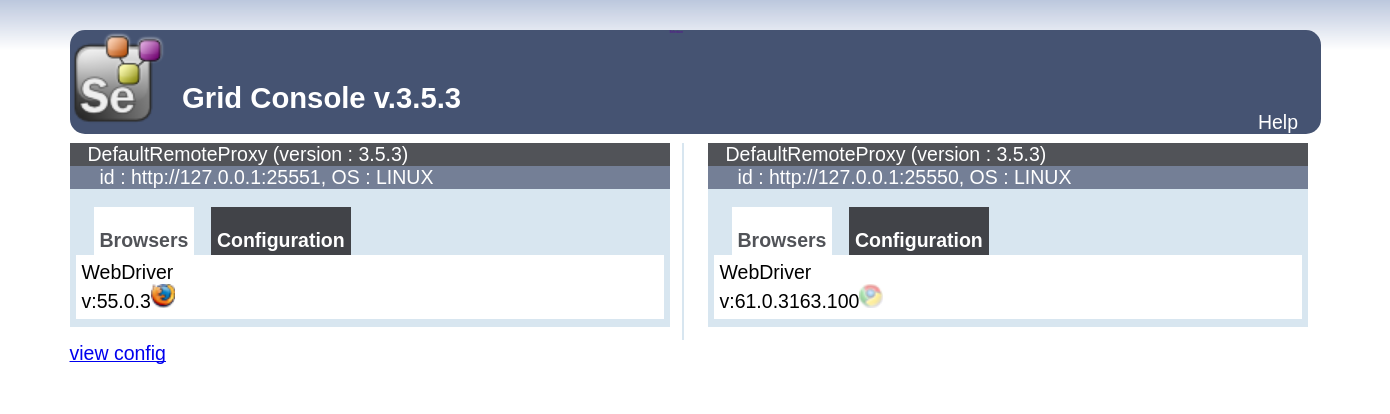
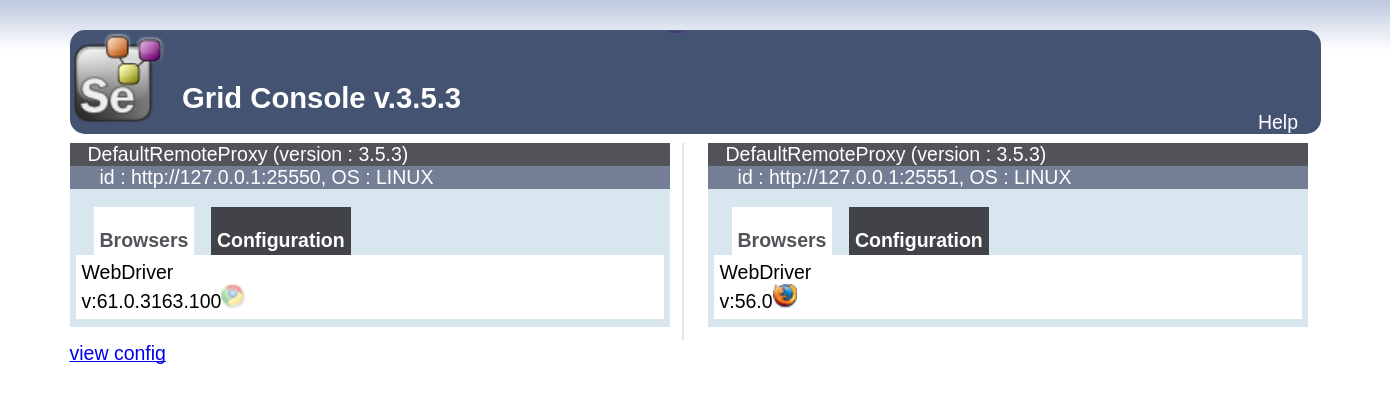
Tests: CI: Add script_scenario_arbitrary_uid for #175

diff --git a/test/python_test.py b/test/python_test.py
@@ -89,7 +89,7 @@ if args.browser == 'firefox':
             }
 
 # http://selenium-python.readthedocs.org/en/latest/getting-started.html#using-selenium-with-remote-webdriver
-print ("%s %s - (01/14) Will connect to selenium at %s" % (datetime.datetime.utcnow(), longId, myselenium_hub_url))
+print ("%s %s - (01/15) Will connect to selenium at %s" % (datetime.datetime.utcnow(), longId, myselenium_hub_url))
 driver = webdriver.Remote(command_executor=myselenium_hub_url, desired_capabilities=caps)
 time.sleep(msleep)
 
@@ -160,11 +160,11 @@ pageurl = ("http://%s:%s/adwords" % (page_host, page_port))
 
 @retry(stop_max_attempt_number=20, stop_max_delay=40100, wait_fixed=300)
 def open_web_page():
-    print ("%s %s - (02/14) Opening page %s" % (datetime.datetime.utcnow(), longId, pageurl))
+    print ("%s %s - (02/15) Opening page %s" % (datetime.datetime.utcnow(), longId, pageurl))
     driver.get(pageurl)
     time.sleep(msleep)
-    print ("%s %s - (03/14) Current title: %s" % (datetime.datetime.utcnow(), longId, driver.title))
-    print ("%s %s - (04/14) Asserting 'Google Adwords' in driver.title" % (datetime.datetime.utcnow(), longId))
+    print ("%s %s - (03/15) Current title: %s" % (datetime.datetime.utcnow(), longId, driver.title))
+    print ("%s %s - (04/15) Asserting 'Google Adwords' in driver.title" % (datetime.datetime.utcnow(), longId))
     assert "Google AdWords | Pay-per-Click-Onlinewerbung auf Google (PPC)" in driver.title
 
 open_web_page()
@@ -172,12 +172,12 @@ open_web_page()
 @retry(stop_max_attempt_number=12, stop_max_delay=5000, wait_fixed=300)
 def mobile_emulation_get_costs():
     pageurl = ("http://%s:%s/adwords/costs" % (page_host, page_port))
-    print ("%s %s - (04/14) mobile_emulation test: Opening page %s" % (datetime.datetime.utcnow(), longId, pageurl))
+    print ("%s %s - (04/15) mobile_emulation test: Opening page %s" % (datetime.datetime.utcnow(), longId, pageurl))
     driver.get(pageurl)
 
 @retry(stop_max_attempt_number=40, stop_max_delay=40100, wait_fixed=300)
 def click_kosten():
-    print ("%s %s - (04/14) Click link 'Kosten'" % (datetime.datetime.utcnow(), longId))
+    print ("%s %s - (04/15) Click link 'Kosten'" % (datetime.datetime.utcnow(), longId))
     assert is_element_present(By.LINK_TEXT, "Kosten")
     link = driver.find_element_by_link_text('Kosten')
     assert link.is_displayed()
@@ -202,22 +202,25 @@ time.sleep(msleep)
 
 @retry(stop_max_attempt_number=20, stop_max_delay=40100, wait_fixed=300)
 def assert_at_costs_page():
-    print ("%s %s - (05/14) Current title: %s" % (datetime.datetime.utcnow(), longId, driver.title))
-    print ("%s %s - (06/14) Asserting 'Kosten' in driver.title" % (datetime.datetime.utcnow(), longId))
+    print ("%s %s - (05/15) Current title: %s" % (datetime.datetime.utcnow(), longId, driver.title))
+    print ("%s %s - (06/15) Asserting 'Kosten' in driver.title" % (datetime.datetime.utcnow(), longId))
     assert "Kosten von Google AdWords | Google AdWords" in driver.title
 
 assert_at_costs_page()
 
+print ("%s %s - (13/15) Will driver.maximize_window()" % (datetime.datetime.utcnow(), longId))
+driver.maximize_window()
+
 @retry(stop_max_attempt_number=40, stop_max_delay=40100, wait_fixed=300)
 def assert_overview_page():
-    print ("%s %s - (07/14) Go back to home page" % (datetime.datetime.utcnow(), longId))
+    print ("%s %s - (07/15) Go back to home page" % (datetime.datetime.utcnow(), longId))
     assert is_element_present(By.LINK_TEXT, 'Übersicht')
     link = driver.find_element_by_link_text('Übersicht')
     assert link.is_displayed()
     link.click()
     time.sleep(msleep)
-    print ("%s %s - (10/14) Current title: %s" % (datetime.datetime.utcnow(), longId, driver.title))
-    print ("%s %s - (11/14) Asserting 'Google (PPC)' in driver.title" % (datetime.datetime.utcnow(), longId))
+    print ("%s %s - (10/15) Current title: %s" % (datetime.datetime.utcnow(), longId, driver.title))
+    print ("%s %s - (11/15) Asserting 'Google (PPC)' in driver.title" % (datetime.datetime.utcnow(), longId))
     assert "Google AdWords | Pay-per-Click-Onlinewerbung auf Google (PPC)" in driver.title
     time.sleep(msleep)
 
@@ -225,10 +228,10 @@ if args.browser != 'mobile_emulation':
     assert_overview_page()
 
 # https://github.com/mozilla/geckodriver/issues/957
-# print ("%s %s - (12/14) Test done - will driver.close()" % (datetime.datetime.utcnow(), longId))
+# print ("%s %s - (12/15) Test done - will driver.close()" % (datetime.datetime.utcnow(), longId))
 # driver.close()
 # time.sleep(msleep)
 
-print ("%s %s - (13/14) Test done - will driver.quit()" % (datetime.datetime.utcnow(), longId))
+print ("%s %s - (14/15) Test done - will driver.quit()" % (datetime.datetime.utcnow(), longId))
 driver.quit()
-print ("%s %s - (14/14) All done. SUCCESS! - DONE driver.quit()" % (datetime.datetime.utcnow(), longId))
+print ("%s %s - (15/15) All done. SUCCESS! - DONE driver.quit()" % (datetime.datetime.utcnow(), longId))

diff --git a/CHANGELOG.md b/CHANGELOG.md
@@ -7,6 +7,31 @@ Note image ids also change after scm-source.json has being updated which trigger
 ###### To get container versions
     docker exec grid versions
 
+## TBD_DOCKER_TAG
+ + **Changes:** https://github.com/elgalu/docker-selenium/compare/3.5.3-p9...3.5.3-p10 (TBD_DATE)
+    + Upgrade Firefox major from 55.0.3 to 56 @diemol
+    + Improve resiliency for non-sudo environments #175
+    + Tests: CI: Add script_scenario_arbitrary_uid for #175
+ + **Image tag details:**
+    + Selenium version: TBD_SELENIUM_3_VERSION (TBD_SELENIUM_3_REVISION)
+    + Chrome stable:  TBD_CHROME_STABLE
+    + Firefox stable: TBD_FIREFOX_FOR_SEL3
+    + Geckodriver: TBD_GECKO_DRIVER
+    + Chromedriver: TBD_CHROME_DRIVER (TBD_CHROMEDRIVER_COMMIT)
+    + Java: TBD_JAVA_VENDOR Java TBD_JAVA_BUILD
+    + Timezone: TBD_TIME_ZONE
+    + FROM ubuntu:UBUNTU_FLAVOR-UBUNTU_DATE
+    + Python: TBD_PYTHON_VERSION
+    + Tested on kernel dev host: 4.4.0-96-generic x86_64
+    + Tested on kernel CI  host: TBD_HOST_UNAME
+    + Built at dev host with: Docker version 17.07.0-ce, build 8784753
+    + Built at CI  host with: Docker version TBD_DOCKER_VERS, build TBD_DOCKER_BUILD
+    + Built at dev host with: Docker Compose version 1.16.1, build 6d1ac21
+    + Built at CI  host with: Docker Compose version TBD_DOCKER_COMPOSE_VERS, build TBD_DOCKER_COMPOSE_BUILD
+    + Image size: TBD_IMAGE_SIZE
+    + Digest: TBD_DIGEST
+    + Image ID: TBD_IMAGE_ID
+
 ## 3.5.3-p9
  + **Changes:** https://github.com/elgalu/docker-selenium/compare/3.5.3-p8...3.5.3-p9 (2017-09-26)
     + Tests: CI: Add logic for untrusted PRs

diff --git a/misc/misc.md b/misc/misc.md
@@ -3,7 +3,10 @@ Miscellaneous internal notes, do not read!
 ## Build
 
     time (docker build -t selenium . ;echo $?;beep)
-    docker run --rm -ti --name=grid --privileged -e SELENIUM_HUB_PORT=4444 -p=4444:4444 -p=5900:25900 -e VIDEO=true -e CHROME=false -e FIREFOX=false --shm-size=1g selenium
+    docker run --rm -ti --name=grid --privileged -e SELENIUM_HUB_PORT=4444 -p=4444:4444 -p=5900:25900 -e VIDEO=true -e CHROME=true -e FIREFOX=true -e DEBUG=bash --shm-size=1g selenium
+
+### Uid
+    docker run --rm -ti -u 1000060000:1000060000 --name=grid --privileged -e SELENIUM_HUB_PORT=4444 -p=4444:4444 -p=5900:25900 -e VIDEO=true -e CHROME=false -e FIREFOX=false --shm-size=1g selenium
 
 ### Wait
 Wait and get versions

diff --git a/CONTRIBUTING.md b/CONTRIBUTING.md
@@ -4,7 +4,7 @@
 For pull requests or local commits:
 
     git checkout -b tmp-`cat VERSION`
-    time (./test/bef && ./test/script_start && ./test/script_archive)
+    time (./test/bef && ./test/script_run_all_tests && ./test/script_archive)
     open ./images/grid3_console.png && open ./videos/mobile_emulation/*.mp4
     git checkout scm-source.json && docker exec grid versions && ./test/after_script
     #git add ... git commit ... git push ... open pull request
